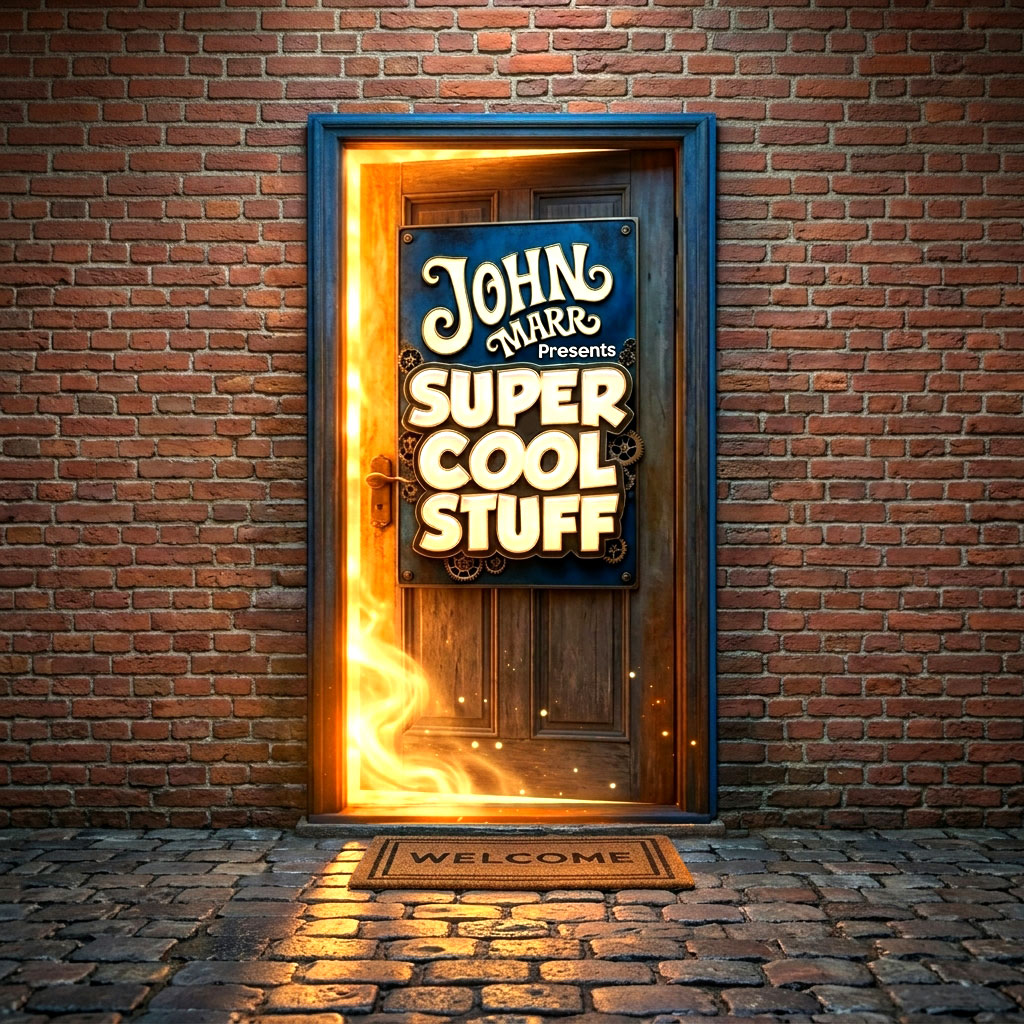
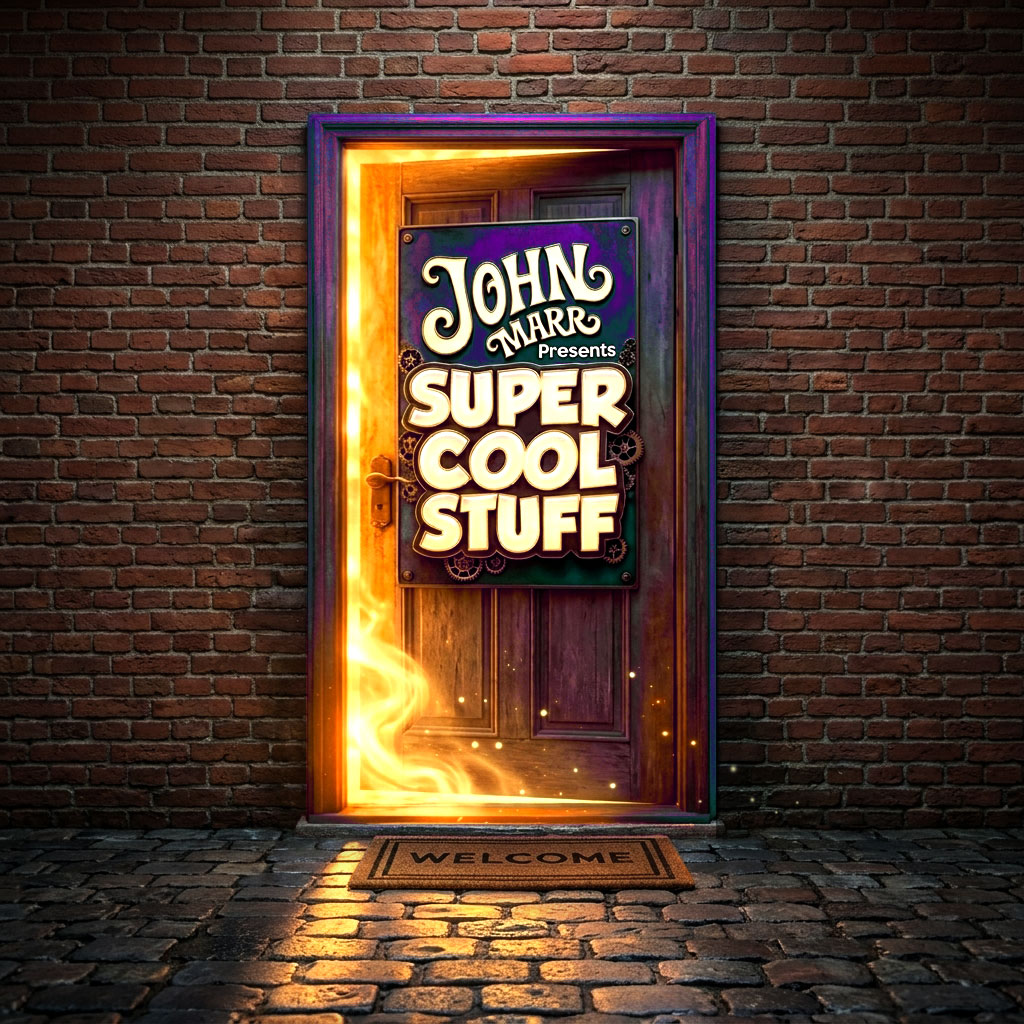
Landing page polish and auth flow fixes
- Two-layer landing page: mask window (responds to both axes) with
  image container inside (only responds to viewport height)
- Login link follows mask edge, sign-up button uses JMButton gradient
  with gentle pulse animation
- 40px margins with rounded-4xl corners on mask window
- Auth page "Back to home" links directly to /about
- Fix missing redirectUrl dependency in auth useEffect

Made-with: Cursor

diff --git a/src/app/about/page.tsx b/src/app/about/page.tsx
@@ -2,57 +2,67 @@
 
 import Image from "next/image";
 import Link from "next/link";
+import { Button } from "@/JMKit";
 
 export default function AboutPage() {
   return (
-    <div className="flex min-h-dvh items-center justify-center overflow-hidden bg-black">
-      {/* Square container: min(1024px, 100dvh), always square, centered */}
+    <div className="flex h-dvh items-center justify-center overflow-hidden bg-black p-[40px]">
+      {/* Window/mask: width capped to image size OR viewport, height by viewport. Always 40px margins. */}
       <div
-        className="relative shrink-0 overflow-hidden rounded-2xl"
+        className="relative overflow-hidden rounded-4xl"
         style={{
-          width: "min(1024px, 100dvh)",
-          height: "min(1024px, 100dvh)",
+          width: "min(1024px, calc(100dvh - 80px), calc(100vw - 80px))",
+          height: "min(1024px, calc(100dvh - 80px))",
         }}
       >
-        <Image
-          src="/images/bgs/JMP-Magical-Door-SM-Web.jpg"
-          alt="John Marr Presents Super Cool Stuff"
-          width={1024}
-          height={1024}
-          className="h-full w-full object-cover"
-          priority
-        />
-
-        {/* Sign Up button: 1/3 width, half that for height, centered at 67% from top */}
-        <div
-          className="absolute left-1/2 flex flex-col items-center"
+        {/* Login link: follows the mask edges — 35px from right, 25px from top */}
+        <Link
+          href="/auth?login=true"
+          className="absolute right-[35px] top-[25px] z-10 font-medium text-white transition-opacity hover:opacity-80"
           style={{
-            top: "calc(67% - min(1024px, 100dvh) / 12)",
-            transform: "translateX(-50%)",
+            fontSize: "calc(min(1024px, calc(100dvh - 80px)) / 45)",
           }}
         >
-          <Link
-            href="/auth"
-            className="flex items-center justify-center rounded-full font-bold text-black shadow-lg transition-transform hover:scale-105 active:scale-95"
-            style={{
-              width: "calc(min(1024px, 100dvh) / 3)",
-              height: "calc(min(1024px, 100dvh) / 6)",
-              fontSize: "calc(min(1024px, 100dvh) / 30)",
-              background: "linear-gradient(135deg, #FFA500, #FF8C00)",
-            }}
-          >
-            Sign Up For Free
-          </Link>
+          Log In
+        </Link>
 
-          <Link
-            href="/auth?login=true"
-            className="mt-[30px] font-medium text-white transition-opacity hover:opacity-80"
+        {/* Image container: square, sized only by viewport height, centered horizontally */}
+        <div
+          className="absolute left-1/2 top-0 -translate-x-1/2"
+          style={{
+            width: "min(1024px, calc(100dvh - 80px))",
+            height: "min(1024px, calc(100dvh - 80px))",
+          }}
+        >
+          <Image
+            src="/images/bgs/JMP-Magical-Door-SM-Web.jpg"
+            alt="John Marr Presents Super Cool Stuff"
+            width={1024}
+            height={1024}
+            className="h-full w-full object-cover"
+            priority
+          />
+
+          {/* Sign Up button positioned relative to the image container */}
+          <div
+            className="absolute left-1/2"
             style={{
-              fontSize: "calc(min(1024px, 100dvh) / 45)",
+              top: "calc(67% - min(1024px, calc(100dvh - 80px)) / 20)",
+              transform: "translateX(-50%)",
             }}
           >
-            Log In
-          </Link>
+            <Button
+              asChild
+              className="animate-gentle-pulse rounded-full shadow-lg"
+              style={{
+                width: "calc(min(900px, calc(100dvh - 80px)) / 3.5)",
+                height: "calc(min(900px, calc(100dvh - 80px)) / 12)",
+                fontSize: "calc(min(900px, calc(100dvh - 80px)) / 30)",
+              }}
+            >
+              <Link href="/auth">Sign Up FREE</Link>
+            </Button>
+          </div>
         </div>
       </div>
     </div>

diff --git a/src/app/auth/page.tsx b/src/app/auth/page.tsx
@@ -144,7 +144,7 @@ function AuthContent() {
     };
 
     checkEmailLink();
-  }, [emailFromUrl, nameFromUrl, funnelFromUrl, router]);
+  }, [emailFromUrl, nameFromUrl, funnelFromUrl, router, redirectUrl]);
 
   const handleGoogleSignIn = async () => {
     setIsLoading(true);
@@ -275,7 +275,7 @@ function AuthContent() {
         {/* Header row: Back to home + Content name */}
         <div className="opacity-0 animate-fade-in mb-8 flex items-center justify-between">
           <Link
-            href="/"
+            href="/about"
             className="inline-flex items-center gap-2 font-mono text-sm transition-colors"
             style={{ color: theme.text.secondary }}
           >
@@ -398,7 +398,7 @@ function AuthContent() {
                   value={firstName}
                   onChange={(e) => setFirstName(e.target.value)}
                   required
-                  placeholder="John"
+                  placeholder="Name"
                   className="w-full rounded-xl border px-4 py-3 transition-all focus:outline-none focus-visible:outline-none focus:ring-1"
                   style={{ 
                     borderColor: theme.surfaces.elevated2,

diff --git a/src/app/globals.css b/src/app/globals.css
@@ -140,6 +140,15 @@ select:focus-visible {
   animation: pageBlurPulse 450ms ease-in-out forwards;
 }
 
+@keyframes gentlePulse {
+  0%, 100% { transform: scale(1); }
+  50%      { transform: scale(1.06); }
+}
+
+.animate-gentle-pulse {
+  animation: gentlePulse 2.5s ease-in-out infinite;
+}
+
 /* ─── Story Reader: Prose Styling ─── */
 
 .prose-reader p {
